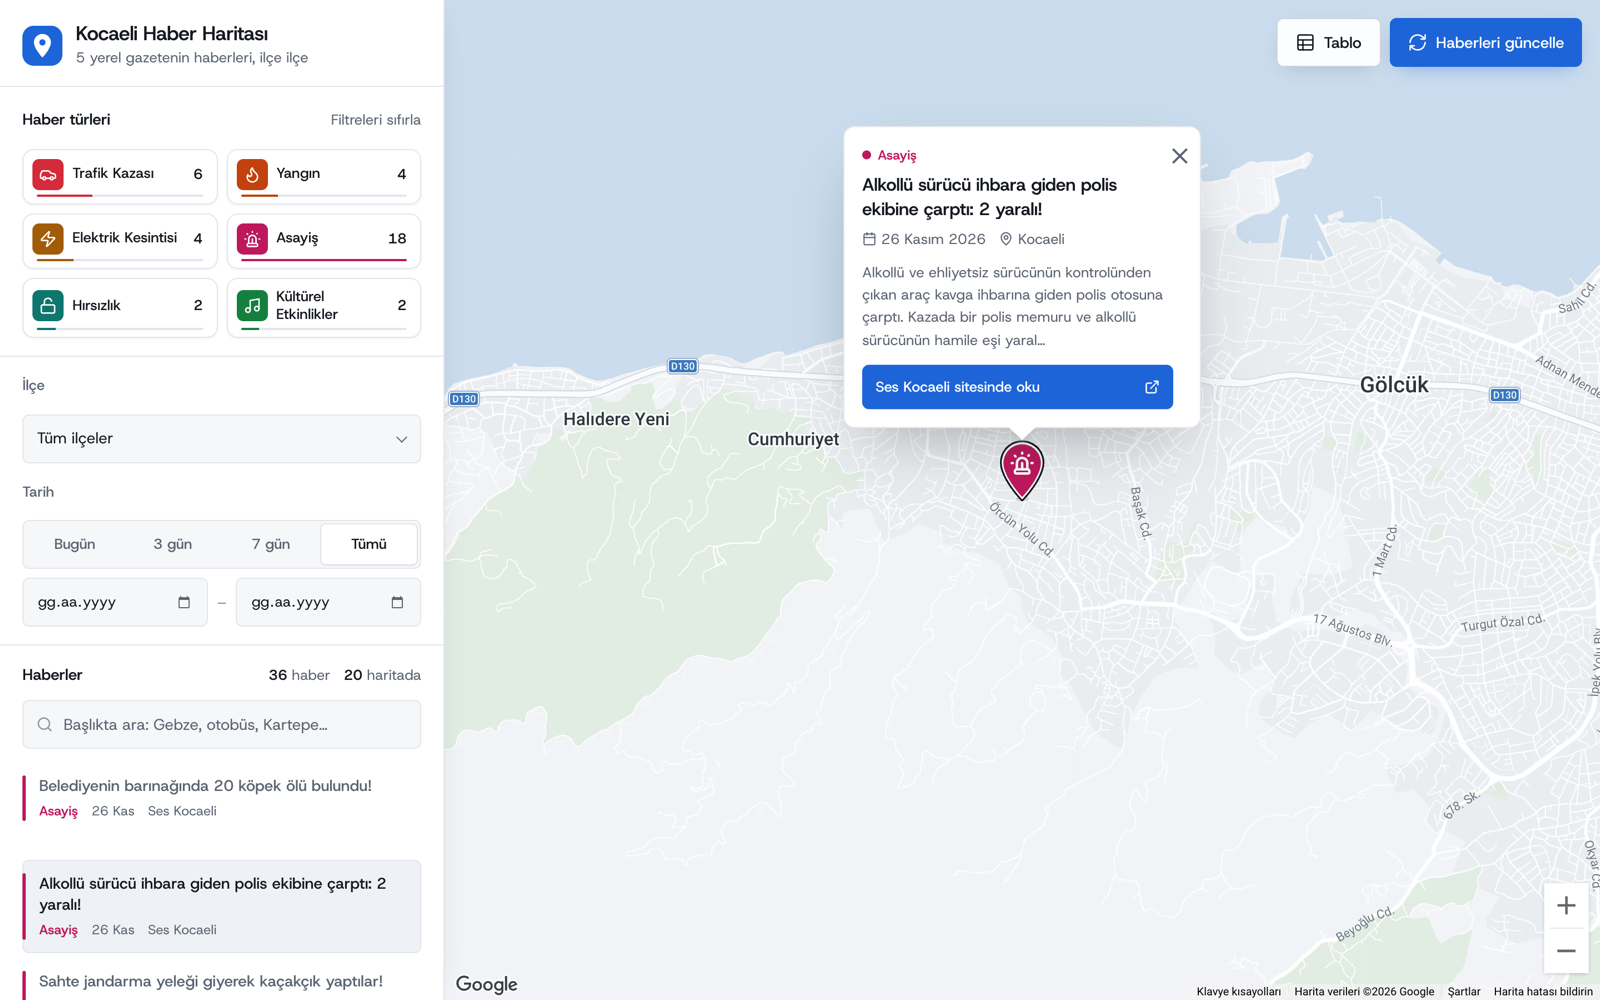
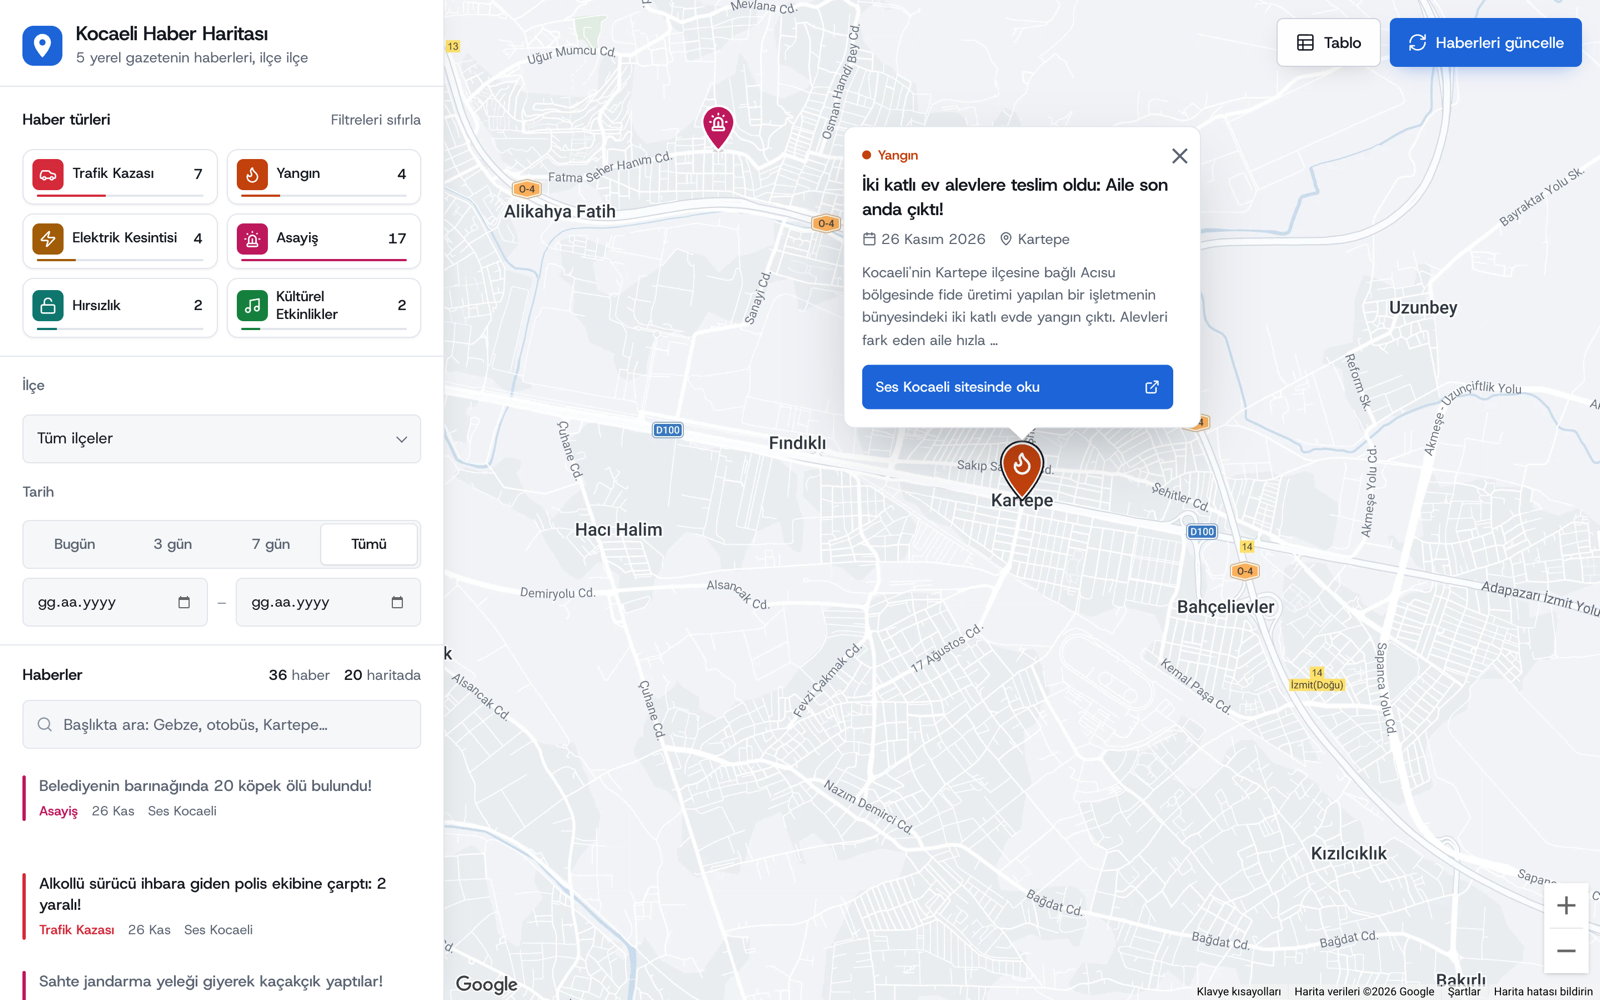
Başlıkta geçen tür önceliklendirildi, README'deki ders satırı sadeleştirildi ve ekran görüntüsü yangın haberiyle yenilendi.

diff --git a/processing/classifier.py b/processing/classifier.py
@@ -19,7 +19,10 @@ Nasıl karar verilir:
    haberi yanlış türe sokamaz.
 2. Skor: Aday türler için başlık + tüm metin üzerinden puan toplanır
    (zayıf kelime +1, güçlü kelime +6, başlıkta eşleşme ek puan).
-3. En yüksek skorlu tür seçilir; eşitlikte öncelik sırası belirler:
+3. Başlık önceliği: Güçlü kelimesi BAŞLIKTA geçen bir aday tür varsa seçim
+   sadece bu türler arasında yapılır. Başlık haberin konusunu söyler; metinde
+   yan bilgi olarak geçen kelime ("kavga ihbarına giden polis") onu ezemez.
+4. En yüksek skorlu tür seçilir; eşitlikte öncelik sırası belirler:
    Trafik Kazası > Yangın > Elektrik Kesintisi > Asayiş > Hırsızlık > Kültürel
 """
 
@@ -79,10 +82,14 @@ class NewsClassifier:
                 "trafik kazası", "kaza", "feci kaza", "zincirleme kaza",
                 "çarpıştı", "çarpışma", "takla attı", "devrildi",
                 "yoldan çıktı", "şarampole", "refüje çıktı", "yayaya çarptı",
-                "kafa kafaya",
+                "kafa kafaya", "çarptı",
+            ],
+            # "Elektrik çarptı", "yıldırım çarptı" trafik kazası değildir
+            "haric_ifadeler": [
+                "elektrik çarp", "elektrik akımına kapıl", "yıldırım çarp", "akım çarp",
             ],
             "anahtar_kelimeler": [
-                "çarptı", "savruldu", "yaralandı", "ağır yaralı",
+                "savruldu", "yaralandı", "ağır yaralı",
                 "hayatını kaybetti", "ambulans", "olay yerinde",
                 "altında kaldı",
             ],
@@ -231,6 +238,7 @@ class NewsClassifier:
         tum_metin = f"{baslik_k} {icerik_k}"
 
         skorlar = {}
+        baslikta_guclu = set()   # güçlü kelimesi başlıkta geçen türler
         for tur, kaliplar in self.derli_kaliplar.items():
             # Hariç ifadeler bu tür için metinden çıkarılır
             # ("yangın söndürme tankeri" → yangın olayı sayılmaz)
@@ -245,6 +253,9 @@ class NewsClassifier:
             if self._say(kaliplar["guclu"], kapi_metni) == 0:
                 skorlar[tur] = 0
                 continue
+
+            if self._say(kaliplar["guclu"], t_baslik) > 0:
+                baslikta_guclu.add(tur)
 
             skor = 0
             skor += self._say(kaliplar["anahtar"], t_tum)
@@ -261,7 +272,10 @@ class NewsClassifier:
         if max_skor == 0:
             return {"haber_turu": None, "guven_skoru": 0.0, "tum_skorlar": skorlar}
 
-        en_yuksekler = [t for t, s in skorlar.items() if s == max_skor]
+        # Başlık önceliği: başlıkta güçlü kelimesi olan aday varsa onlar yarışır
+        yarisanlar = {t: s for t, s in skorlar.items() if s > 0 and t in baslikta_guclu} or skorlar
+        max_skor = max(yarisanlar.values())
+        en_yuksekler = [t for t, s in yarisanlar.items() if s == max_skor]
         secilen = min(en_yuksekler, key=lambda t: self.derli_kaliplar[t]["oncelik"])
 
         guven = skorlar[secilen] / sum(skorlar.values())

diff --git a/tests/test_classifier.py b/tests/test_classifier.py
@@ -164,3 +164,25 @@ def test_haric_ifade_gercek_olayi_engellemez(siniflandirici):
                "Geçen ay yangın tatbikatı yapılan fabrikada bu sabah yangın çıktı.") == "yangin"
     # Tekil "kadın cinayeti" bir olay haberidir
     assert tur(siniflandirici, "Gölcük'te kadın cinayeti", "Eşini öldüren şüpheli tutuklandı.") == "asayis"
+
+
+# ------------------------------------------------------------ başlık önceliği
+def test_baslik_konusu_metindeki_yan_bilgiyi_ezer(siniflandirici):
+    # Metinde "kavga ihbarı" geçiyor ama haber bir trafik kazası
+    assert tur(siniflandirici, "Alkollü sürücü polis aracına çarptı: 2 yaralı",
+               "Ehliyetsiz sürücünün kullandığı otomobil, kavga ihbarına giden polis "
+               "otosuna çarptı. Kazada bir polis memuru yaralandı.") == "trafik_kazasi"
+
+
+def test_baslikta_suc_varsa_asayis_kalir(siniflandirici):
+    # Başlıkta asayiş var, metinde araç geçiyor → asayiş
+    assert tur(siniflandirici, "Tartıştığı kişiyi bıçakla yaraladı",
+               "Şüpheli olaydan sonra otomobiliyle kaçtı, polis kaza yerinde değil evinde yakaladı.") == "asayis"
+
+
+@pytest.mark.parametrize("baslik, icerik", [
+    ("Elektrik çarpan işçi hastaneye kaldırıldı", "İnşaatta çalışan işçiyi elektrik çarptı, araçla hastaneye götürüldü."),
+    ("Tarlada yıldırım çarptı", "Traktörün yanında duran çiftçiye yıldırım çarptı."),
+])
+def test_elektrik_yildirim_carpmasi_trafik_degil(siniflandirici, baslik, icerik):
+    assert tur(siniflandirici, baslik, icerik) != "trafik_kazasi"

diff --git a/README.md b/README.md
@@ -3,7 +3,7 @@
 **Web Scraping Tabanlı Kentsel Haber İzleme ve Harita Üzerinde Görselleştirme Sistemi**
 
 Kocaeli Üniversitesi - Bilgisayar Mühendisliği Bölümü  
-Yazılım Laboratuvarı-II | Proje I
+Yazılım Laboratuvarı
 
 ---
 
